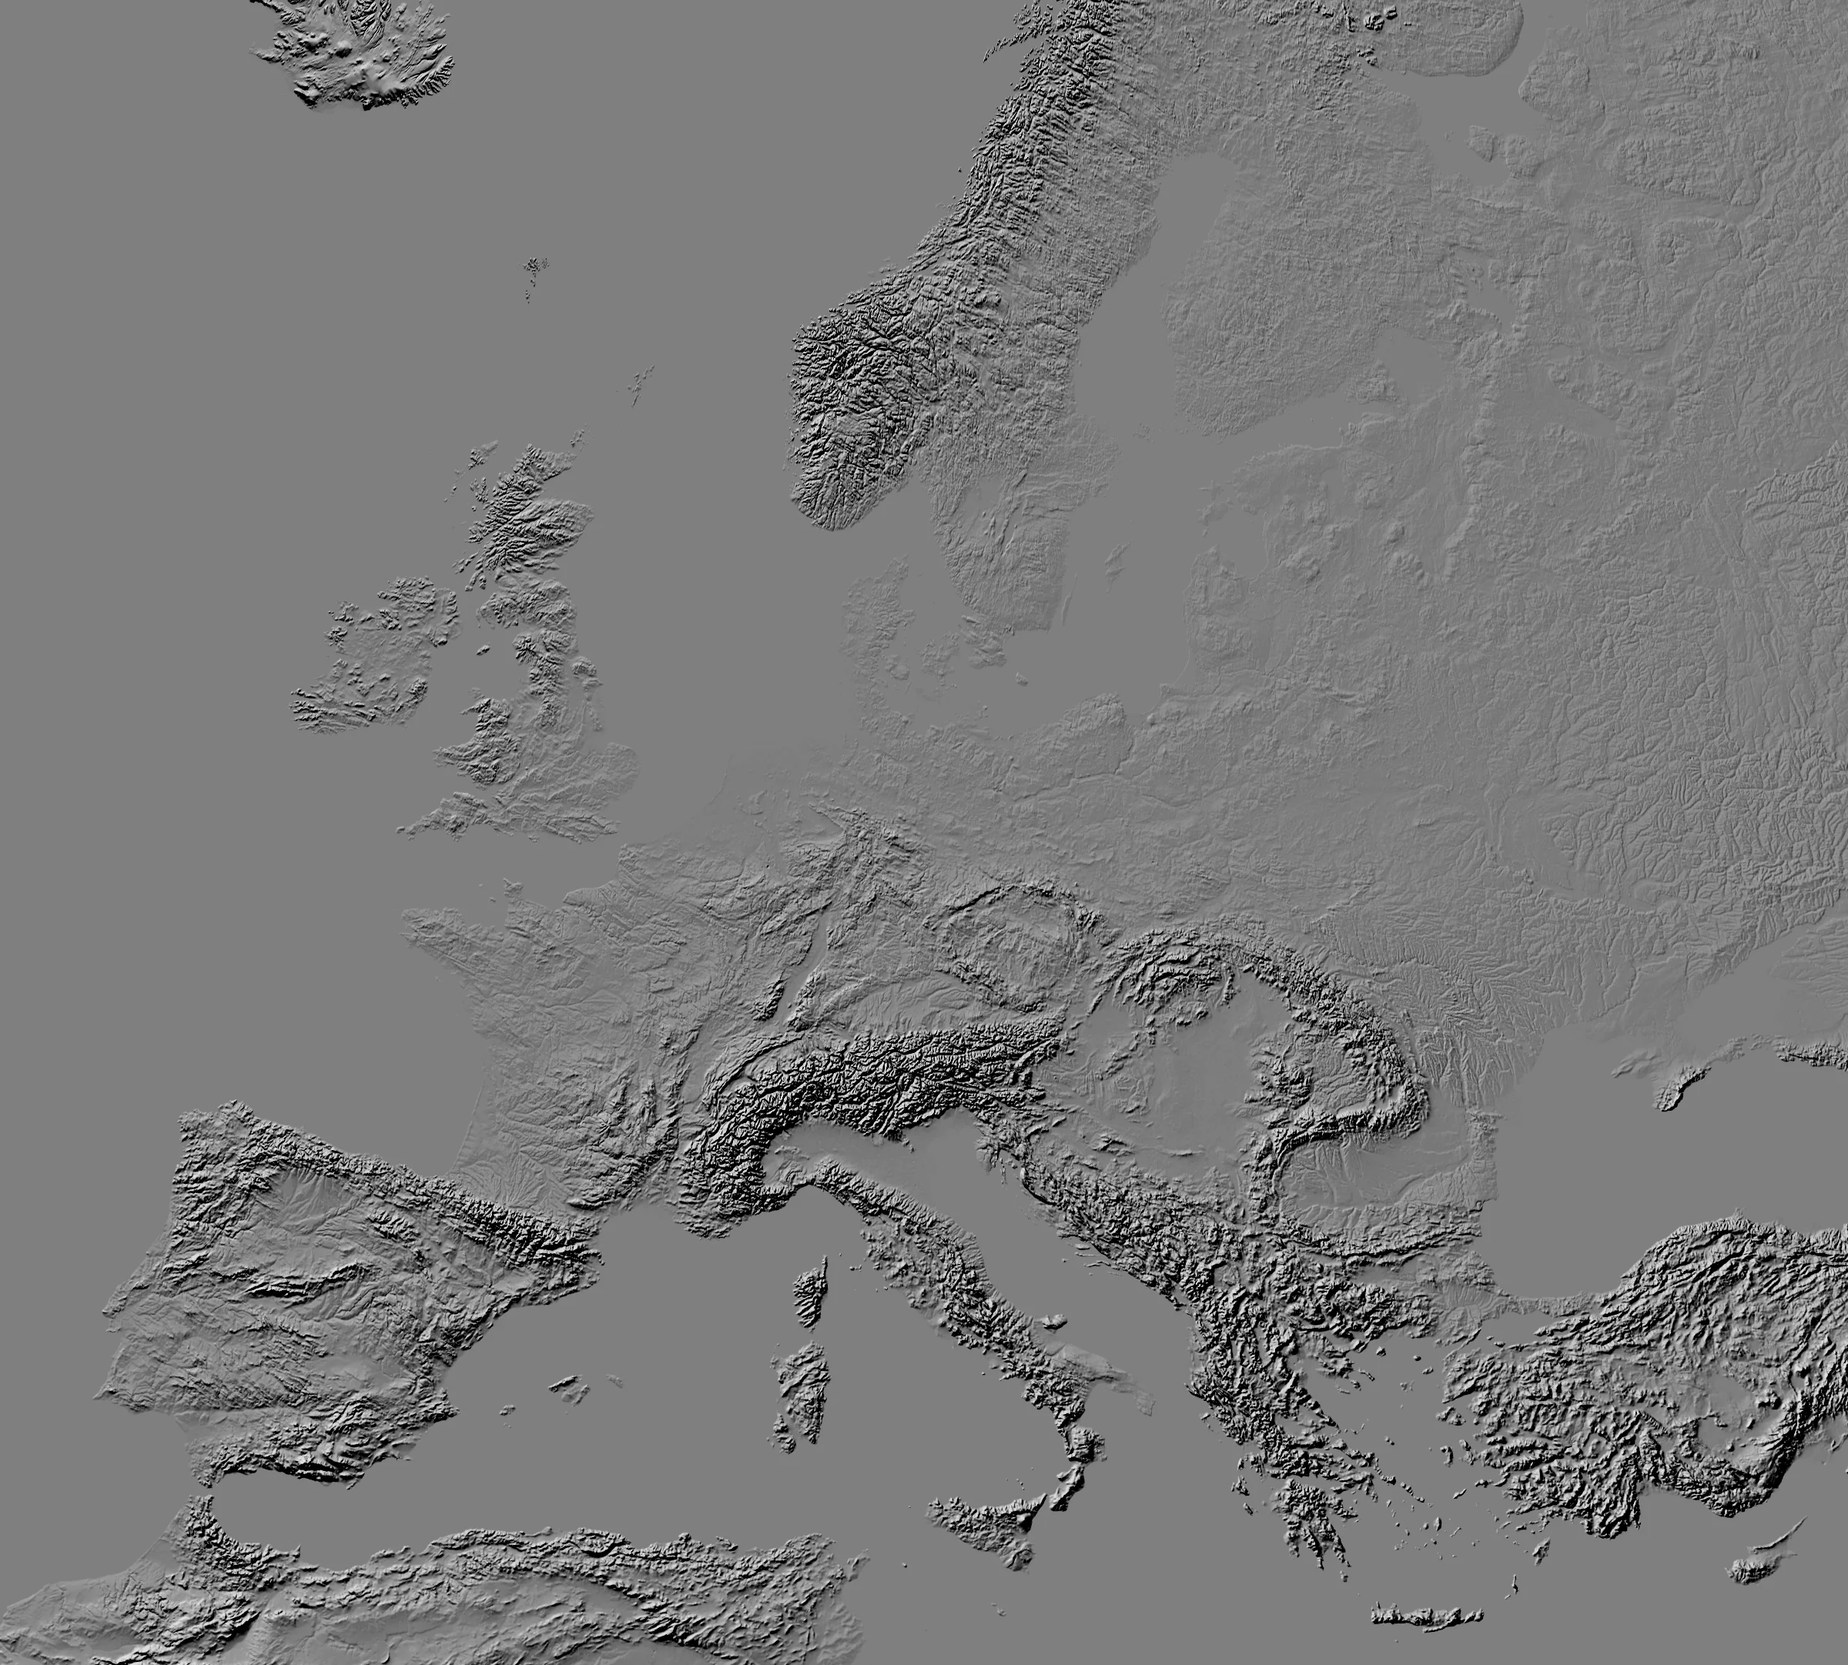
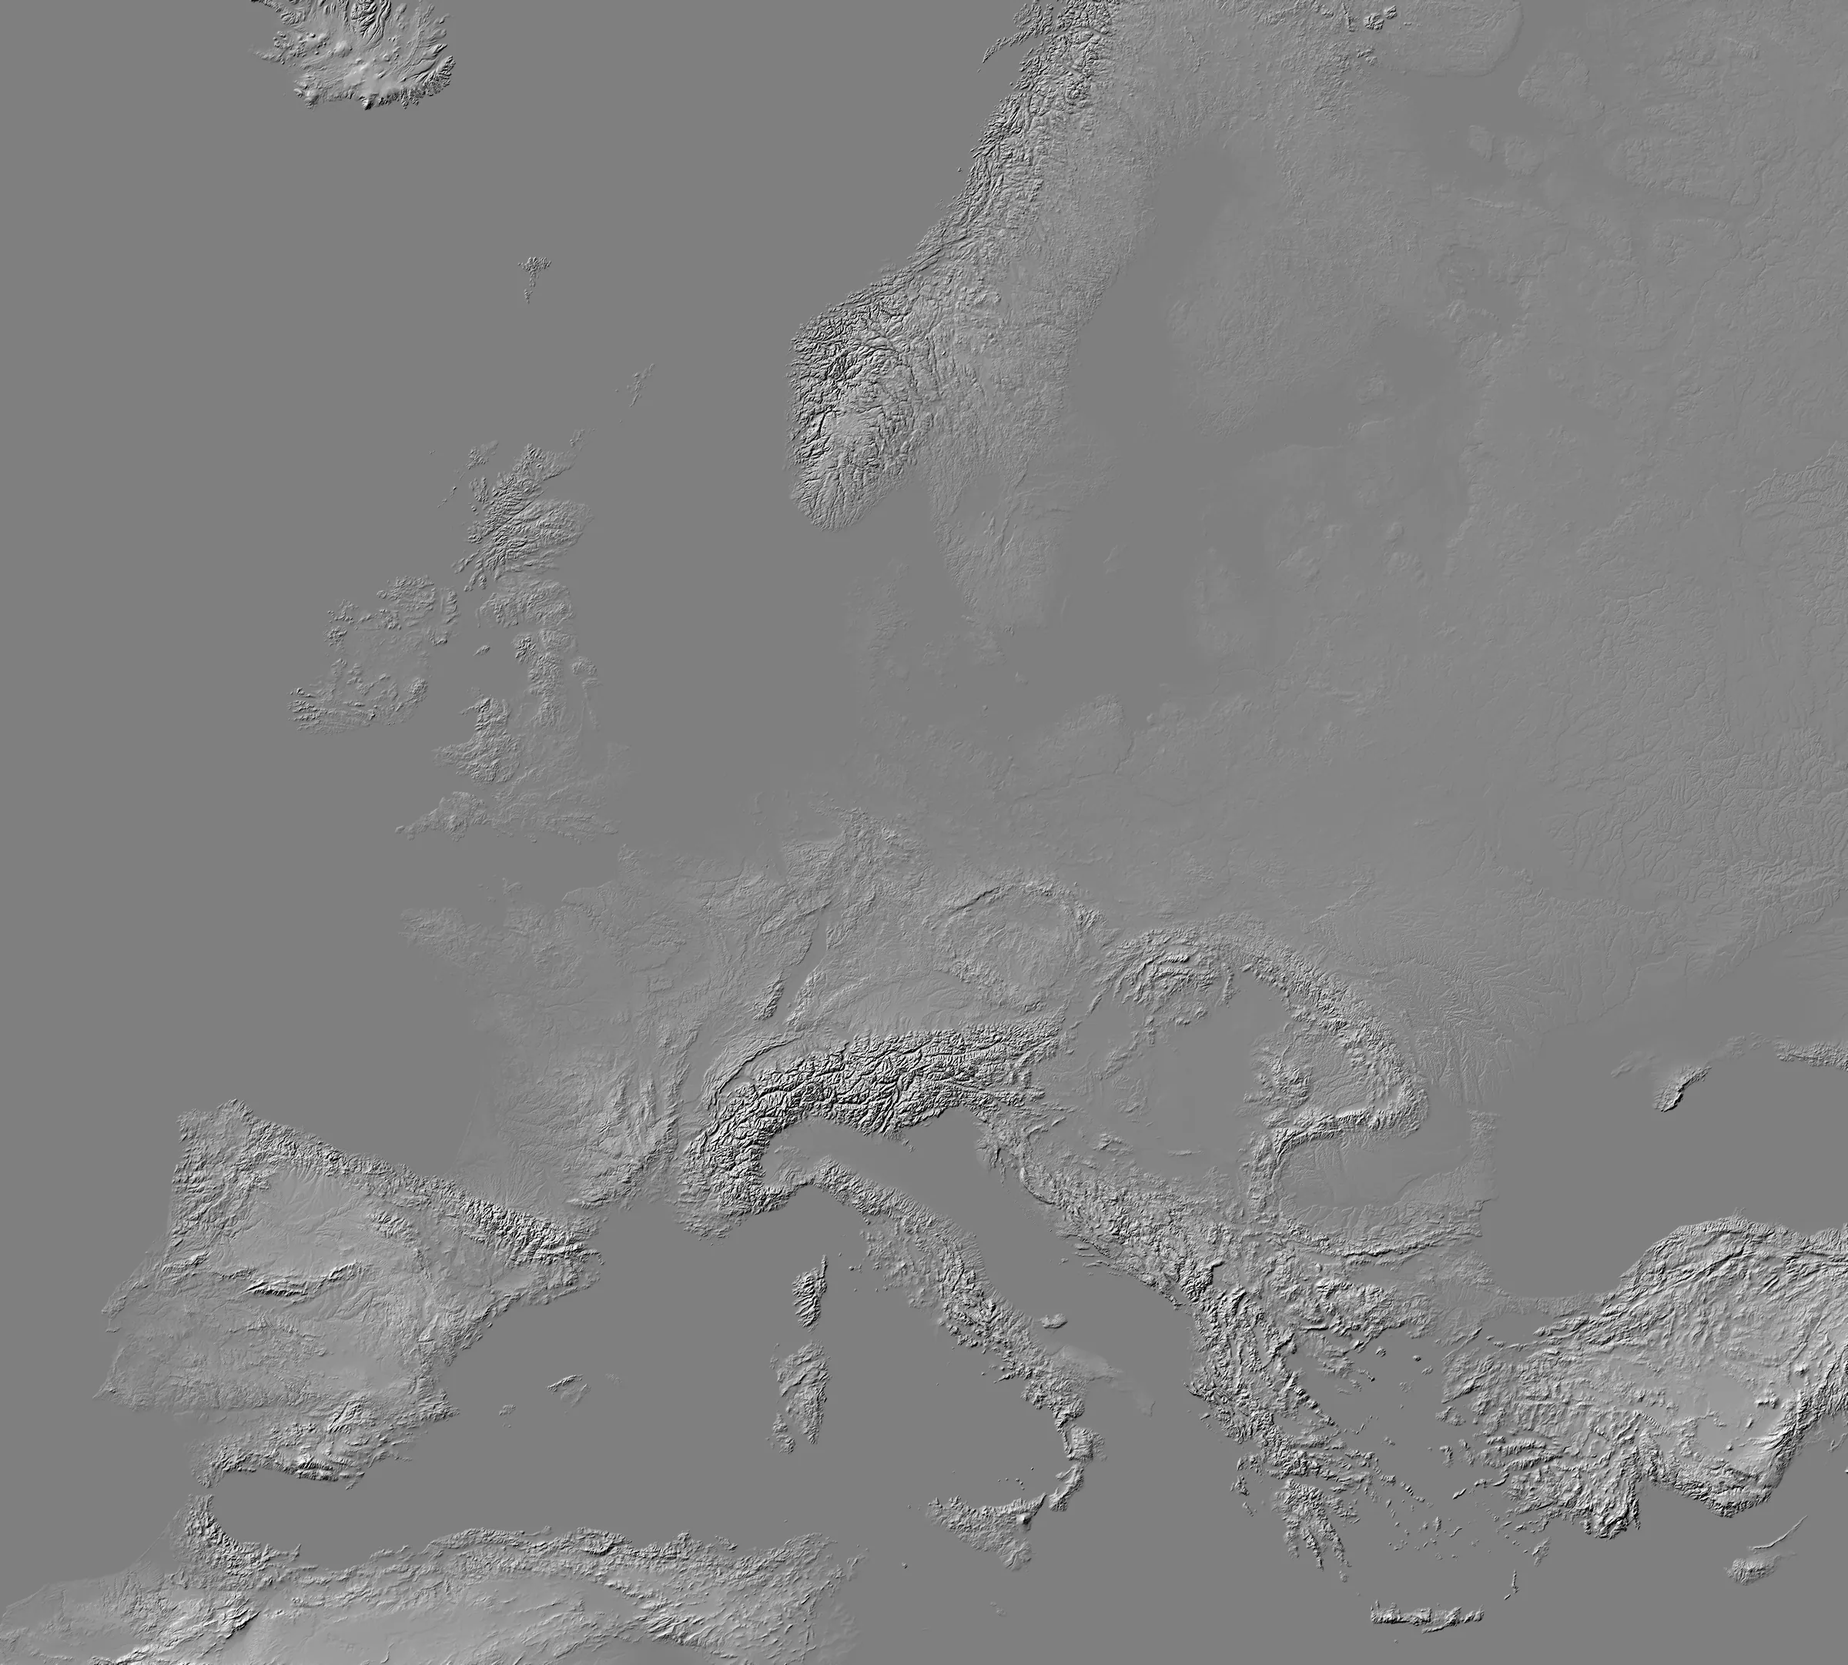
Build the relief from real elevation instead of a picture of relief
Natural Earth's shaded relief is about 1.8 km per pixel. The raster was already
rendered at that, so no amount of re-rendering could add detail - the map was at
its source's ceiling, and it showed the moment anyone zoomed.

The hillshade is now computed here, from AWS Terrain Tiles: 825 tiles of actual
elevation in metres at roughly 390 m per pixel, mosaicked and reprojected into
the game's conic. Slope and aspect give the shading, lit from the north-west so
the eye reads ridges as raised, with a little elevation tint on top so high
country reads as high even where it is not steep. Individual Alpine valleys and
the ridges of the Carpathians now resolve, which is the point: the player is
being asked to work out why a road goes where it goes.

Two renders. An overview at 1.8 km/px paints immediately, and a 705 m/px pass
fades in over the top once it arrives, so first paint never waits on two and a
half megabytes. Two elements rather than one swapped href, which fetched the
same image twice. Terrain still steps aside below 200 km of view, where even
this has no more to give.

Road weights refined: the hierarchy is carried by stroke width now, with opacity
only supporting it, so a slow road stays clearly visible - it is a choice you
might well want to make.

diff --git a/web/app.css b/web/app.css
@@ -57,7 +57,13 @@ html, body {
 /* Opacity is driven from JS: Natural Earth's relief is about 1.8 km per pixel,
    so past a certain zoom it has no more detail to give and only muddies the
    roads, which by then are the thing worth looking at. */
-#terrain { opacity: .95; mix-blend-mode: overlay; transition: opacity .3s linear; }
+#terrain, #terrainDetail {
+  opacity: var(--terrain-opacity, .95); mix-blend-mode: overlay;
+  transition: opacity .3s linear;
+}
+/* The detail layer is transparent until it has actually arrived. */
+#terrainDetail { opacity: 0; }
+#terrainDetail.is-ready { opacity: var(--terrain-opacity, .95); transition: opacity .8s ease; }
 
 .country {
   fill: var(--land); stroke: var(--land-edge); stroke-width: 1.4;
@@ -93,9 +99,11 @@ html, body {
   fill: none; stroke: var(--reachable);
   stroke-linecap: round; stroke-linejoin: round; vector-effect: non-scaling-stroke;
 }
-.reach-line.pace-2 { stroke-width: 3; opacity: .95; }
-.reach-line.pace-1 { stroke-width: 1.8; opacity: .6; }
-.reach-line.pace-0 { stroke-width: 1; opacity: .38; }
+/* Weight carries the hierarchy; opacity only supports it. A slow road still has
+   to be clearly visible — it is a choice you might well want to make. */
+.reach-line.pace-2 { stroke-width: 3.4; opacity: .95; }
+.reach-line.pace-1 { stroke-width: 2; opacity: .74; }
+.reach-line.pace-0 { stroke-width: 1.2; opacity: .56; }
 .reach-line--hot { stroke: var(--ink); opacity: 1; }
 
 .leg.pace-2 { stroke-width: 3.6; }
@@ -319,9 +327,9 @@ html, body {
   font-family: var(--mono); font-size: 11px; padding: 2px 0;
 }
 .roadkey__line { display: block; width: 26px; border-top-style: solid; border-top-color: var(--reachable); }
-.roadkey__line--2 { border-top-width: 3px; opacity: .95; }
-.roadkey__line--1 { border-top-width: 1.8px; opacity: .6; }
-.roadkey__line--0 { border-top-width: 1px; opacity: .38; }
+.roadkey__line--2 { border-top-width: 3.4px; opacity: .95; }
+.roadkey__line--1 { border-top-width: 2px; opacity: .74; }
+.roadkey__line--0 { border-top-width: 1.2px; opacity: .56; }
 .reset-view {
   position: absolute; z-index: 3; right: 26px; top: 22px;
   font: inherit; font-size: 12px; padding: 7px 12px; cursor: pointer;

diff --git a/web/app.js b/web/app.js
@@ -71,9 +71,17 @@ function computeFrame() {
   const y = clamp((a.y + b.y) / 2 - h / 2, view.y - SLACK, view.y + view.h + SLACK - h);
   return { x, y, w, h };
 }
-for (const attr of [['x', view.x], ['y', view.y], ['width', view.w], ['height', view.h]]) {
-  $('terrain').setAttribute(attr[0], attr[1]);
+// Two relief layers, both positioned over the whole map. The overview paints
+// immediately; the detailed one is a couple of megabytes and fades in over the
+// top once it has arrived, so the first frame never waits on it. Two elements
+// rather than swapping one href, which would fetch the same image twice.
+for (const id of ['terrain', 'terrainDetail']) {
+  for (const [k, v] of [['x', view.x], ['y', view.y], ['width', view.w], ['height', view.h]]) {
+    $(id).setAttribute(k, v);
+  }
 }
+$('terrainDetail').addEventListener('load', () => $('terrainDetail').classList.add('is-ready'));
+$('terrainDetail').setAttribute('href', 'terrain-detail.webp');
 for (const d of g.rivers) $('rivers').append(el('path', { d, class: 'river' }));
 for (const d of g.lakes) $('lakes').append(el('path', { d, class: 'lake' }));
 
@@ -155,8 +163,11 @@ function resizeMarks() {
   // kilometre per pixel it stops being terrain and starts being blur, so it
   // hands the map over to the roads.
   if (camera) {
-    const fade = Math.max(0, Math.min(1, (camera.w - 380) / 520));
-    $('terrain').style.opacity = (0.95 * fade).toFixed(3);
+    // The relief is 705 m per pixel at best, so past roughly a third of that
+    // it stops being terrain and starts being blur. Below 200 km of view it
+    // hands the map over to the roads.
+    const fade = Math.max(0, Math.min(1, (camera.w - 200) / 400));
+    app.style.setProperty('--terrain-opacity', (0.95 * fade).toFixed(3));
   }
 }
 

diff --git a/web/index.html b/web/index.html
@@ -40,6 +40,9 @@
       <!-- Above the country fills, not below them: it blends onto the land it
            is modelling, and the clip keeps it off the sea. -->
       <image id="terrain" href="terrain.webp" clip-path="url(#landClip)" preserveAspectRatio="none"></image>
+      <!-- href is set from JS, so the load handler is attached before the
+           request starts and the image is fetched exactly once. -->
+      <image id="terrainDetail" clip-path="url(#landClip)" preserveAspectRatio="none"></image>
       <g id="rivers"></g>
       <g id="lakes"></g>
       <g id="optimalRoute"></g>

diff --git a/scripts/04-terrain.py b/scripts/04-terrain.py
@@ -1,19 +1,31 @@
-"""Phase 4, step 2: the reveal layer.
+"""The relief layer, built from real elevation data.
 
-Natural Earth's shaded relief, reprojected into the same Lambert conformal
-conic the boundaries and the adjacency graph use, cropped to the game's view
-box. Emitted as a plain grayscale PNG: the page clips it to the country
-outlines and tints it in CSS, so one file serves both themes.
+Natural Earth's shaded relief is about 1.8 km per pixel, which is fine at
+continental scale and mush the moment anyone zooms. This builds the shading
+ourselves from AWS Terrain Tiles (the old Mapzen elevation pyramid, metres above
+sea level, ~390 m per pixel at these latitudes) reprojected into the game's
+conic, so the map holds up when you go looking at how a road crosses a range.
 
   python3 scripts/04-terrain.py
+
+Downloaded tiles are cached under data/raw/dem/, so a rebuild is free.
 """
-import json, math, pathlib
+import concurrent.futures as futures
+import json, math, pathlib, urllib.request
 import numpy as np
 from PIL import Image
 
 Image.MAX_IMAGE_PIXELS = None
 ROOT = pathlib.Path(__file__).resolve().parent.parent
-OUT_W = 2400
+CACHE = ROOT / 'data' / 'raw' / 'dem'
+CACHE.mkdir(parents=True, exist_ok=True)
+
+ZOOM = 7                       # 512 px tiles => ~390 m/px at 50N
+TILE = 512
+SOURCE = 'https://s3.amazonaws.com/elevation-tiles-prod/geotiff/{z}/{x}/{y}.tif'
+# Two renders: an overview that loads instantly and a detail pass swapped in
+# behind it once it arrives.
+OUTPUTS = [('terrain.webp', 2400, 80), ('terrain-detail.webp', 6000, 68)]
 
 # Must match scripts/lib/proj.mjs.
 LAT1, LAT2, LAT0, LON0, R = 43.0, 62.0, 52.0, 15.0, 6371.0088
@@ -32,47 +44,108 @@ def inverse(x, y):
     return lon, lat
 
 
+def merc_xy(lon, lat):
+    """lon/lat -> global pixel coordinates in the tile pyramid."""
+    span = TILE * 2 ** ZOOM
+    lat = np.clip(lat, -85.05, 85.05)
+    sin = np.sin(np.radians(lat))
+    return ((lon + 180.0) / 360.0 * span,
+            (0.5 - np.log((1 + sin) / (1 - sin)) / (4 * math.pi)) * span)
+
+
+def fetch(tile):
+    x, y = tile
+    path = CACHE / f'{ZOOM}_{x}_{y}.tif'
+    if path.exists():
+        return path
+    url = SOURCE.format(z=ZOOM, x=x, y=y)
+    for attempt in range(4):
+        try:
+            with urllib.request.urlopen(url, timeout=90) as r:
+                path.write_bytes(r.read())
+            return path
+        except Exception:
+            if attempt == 3:
+                return None
+    return None
+
+
 view = json.loads((ROOT / 'data' / 'map.json').read_text())['view']
-out_h = round(OUT_W * view['h'] / view['w'])
 
-# Pixel centres of the output image, in projected km.
-xs = view['x'] + (np.arange(OUT_W) + 0.5) * view['w'] / OUT_W
-ys = view['y'] + (np.arange(out_h) + 0.5) * view['h'] / out_h
-lon, lat = inverse(*np.meshgrid(xs, ys))
+# Which tiles the view needs. Sample the frame's edge and interior, because a
+# conic projection's bounding box in lon/lat is not a rectangle.
+gx, gy = np.meshgrid(np.linspace(view['x'], view['x'] + view['w'], 80),
+                     np.linspace(view['y'], view['y'] + view['h'], 80))
+lon_s, lat_s = inverse(gx, gy)
+px_s, py_s = merc_xy(lon_s, lat_s)
+x0, x1 = int(px_s.min() // TILE), int(px_s.max() // TILE) + 1
+y0, y1 = int(py_s.min() // TILE), int(py_s.max() // TILE) + 1
+tiles = [(x, y) for x in range(x0, x1 + 1) for y in range(y0, y1 + 1)]
+print(f'view needs {len(tiles)} elevation tiles at zoom {ZOOM} '
+      f'(x {x0}-{x1}, y {y0}-{y1})')
 
-# Source georeferencing, from SR_HR.tfw.
-PX = 1 / 60.0
-src_left, src_top = -180.0, 90.0
-col = (lon - src_left) / PX - 0.5
-row = (src_top - lat) / PX - 0.5
+missing = [t for t in tiles if not (CACHE / f'{ZOOM}_{t[0]}_{t[1]}.tif').exists()]
+if missing:
+    print(f'  fetching {len(missing)}...')
+    with futures.ThreadPoolExecutor(max_workers=8) as pool:
+        for i, _ in enumerate(pool.map(fetch, missing), 1):
+            if i % 100 == 0:
+                print(f'    {i}/{len(missing)}')
 
-c0, c1 = int(np.floor(col.min())) - 1, int(np.ceil(col.max())) + 2
-r0, r1 = int(np.floor(row.min())) - 1, int(np.ceil(row.max())) + 2
-print(f'output {OUT_W}x{out_h}, sampling source rows {r0}:{r1} cols {c0}:{c1}')
+# --- mosaic -----------------------------------------------------------------
+width, height = (x1 - x0 + 1) * TILE, (y1 - y0 + 1) * TILE
+print(f'mosaic {width} x {height} px')
+dem = np.zeros((height, width), dtype=np.int16)
+for (x, y) in tiles:
+    path = CACHE / f'{ZOOM}_{x}_{y}.tif'
+    if not path.exists():
+        continue
+    with Image.open(path) as im:
+        dem[(y - y0) * TILE:(y - y0 + 1) * TILE, (x - x0) * TILE:(x - x0 + 1) * TILE] = \
+            np.asarray(im, dtype=np.int32).astype(np.int16)
 
-with Image.open(ROOT / 'data' / 'raw' / 'SR_HR.tif') as im:
-    src = np.asarray(im.crop((c0, r0, c1, r1)), dtype=np.float32)
+for name, out_w, quality in OUTPUTS:
+    out_h = round(out_w * view['h'] / view['w'])
+    xs = view['x'] + (np.arange(out_w) + 0.5) * view['w'] / out_w
+    ys = view['y'] + (np.arange(out_h) + 0.5) * view['h'] / out_h
 
-col -= c0
-row -= r0
-x0 = np.clip(np.floor(col).astype(np.int32), 0, src.shape[1] - 2)
-y0 = np.clip(np.floor(row).astype(np.int32), 0, src.shape[0] - 2)
-fx = (col - x0).astype(np.float32)
-fy = (row - y0).astype(np.float32)
-sample = (src[y0, x0] * (1 - fx) * (1 - fy) + src[y0, x0 + 1] * fx * (1 - fy)
-          + src[y0 + 1, x0] * (1 - fx) * fy + src[y0 + 1, x0 + 1] * fx * fy)
+    # Reproject in horizontal strips so the intermediate float arrays stay small.
+    elev = np.empty((out_h, out_w), dtype=np.float32)
+    STRIP = 512
+    for top in range(0, out_h, STRIP):
+        bottom = min(top + STRIP, out_h)
+        lon, lat = inverse(*np.meshgrid(xs, ys[top:bottom]))
+        px, py = merc_xy(lon, lat)
+        px -= x0 * TILE
+        py -= y0 * TILE
+        ix = np.clip(px.astype(np.int32), 0, width - 2)
+        iy = np.clip(py.astype(np.int32), 0, height - 2)
+        fx = (px - ix).astype(np.float32)
+        fy = (py - iy).astype(np.float32)
+        elev[top:bottom] = (dem[iy, ix] * (1 - fx) * (1 - fy) + dem[iy, ix + 1] * fx * (1 - fy)
+                            + dem[iy + 1, ix] * (1 - fx) * fy + dem[iy + 1, ix + 1] * fx * fy)
 
-# The page composites this with `mix-blend-mode: overlay`, where mid grey is
-# the do-nothing value. So flat ground has to land on exactly 128: plains then
-# keep the land colour untouched and only real relief modulates it, in both
-# directions, the way a hillshade should. Natural Earth's own flat value sits
-# well above mid grey, which is why this is a recentre and not a stretch.
-land = sample[sample < 250]
-flat = np.median(land)
-GAIN = 2.3
-print(f'relief range {sample.min():.0f}-{sample.max():.0f}, flat ground at {flat:.0f} -> 128')
-norm = np.clip(0.5 + (sample - flat) * GAIN / 255.0, 0, 1)
+    land = np.maximum(elev, 0)
 
-out = ROOT / 'web' / 'terrain.webp'
-Image.fromarray((norm * 255).astype(np.uint8), mode='L').save(out, 'WEBP', quality=84, method=6)
-print(f'wrote {out.relative_to(ROOT)} ({out.stat().st_size / 1024:.0f} KB)')
+    # Hillshade, lit from the north-west as every relief map since the 19th
+    # century has been, because the eye reads it as raised rather than sunken.
+    km_per_px = view['w'] / out_w
+    dzdx, dzdy = np.gradient(land, km_per_px * 1000.0)
+    azimuth, altitude = math.radians(315.0), math.radians(45.0)
+    slope = np.arctan(3.4 * np.hypot(dzdx, dzdy))     # vertical exaggeration
+    aspect = np.arctan2(-dzdx, dzdy)
+    shade = (math.sin(altitude) * np.cos(slope)
+             + math.cos(altitude) * np.sin(slope) * np.cos(azimuth - aspect))
+
+    # The page composites this with `mix-blend-mode: overlay`, where mid grey is
+    # the do-nothing value: flat ground keeps the land colour and only real
+    # relief moves it. A little elevation tint on top so high country reads as
+    # high even where it is not steep.
+    tint = np.clip(land / 2000.0, 0, 1) ** 0.75
+    value = 0.5 + (shade - math.sin(altitude)) * 1.25 + tint * 0.17
+    img = (np.clip(value, 0, 1) * 255).astype(np.uint8)
+
+    out = ROOT / 'web' / name
+    Image.fromarray(img, mode='L').save(out, 'WEBP', quality=quality, method=5)
+    print(f'wrote {out.relative_to(ROOT)}  {out_w}x{out_h}  '
+          f'{km_per_px * 1000:.0f} m/px  {out.stat().st_size / 1024:.0f} KB')

diff --git a/README.md b/README.md
@@ -115,8 +115,12 @@ the shortest road costs. On the 2,147 shipped puzzles at a 1.08× budget:
 ## Data and routing
 
 - Cities: [GeoNames](https://www.geonames.org/) `cities15000` (CC BY 4.0).
-- Boundaries and shaded relief: [Natural Earth](https://www.naturalearthdata.com/)
+- Boundaries, rivers and lakes: [Natural Earth](https://www.naturalearthdata.com/)
   (public domain).
+- Elevation: [AWS Terrain Tiles](https://registry.opendata.aws/terrain-tiles/) —
+  a compilation of SRTM, USGS 3DEP, GMTED2010, ETOPO1 and national datasets. The
+  hillshade is computed from it by `scripts/04-terrain.py` rather than taken
+  pre-rendered, which is what lets the map hold up when you zoom.
 - Road distances and durations: OSRM over OpenStreetMap data
   (ODbL — © OpenStreetMap contributors).
 

diff --git a/docs/SPEC.md b/docs/SPEC.md
@@ -36,7 +36,7 @@ then filtered:
 | the map itself | pan and zoom freely; the frame follows you as you move | framed on both routes |
 | how long a road takes | only after you commit to it | every hop, with its average speed |
 | city names | start, target, and everywhere you can move to | all |
-| terrain | yes, from the first move | yes |
+| terrain | yes, from the first move — hillshade computed from ~390 m elevation data, at 705 m per pixel | yes |
 | the fastest route, and the shortest one | never | both, drawn against yours |
 
 Road pace is shown **only for the roads you can move to**, never for the network
